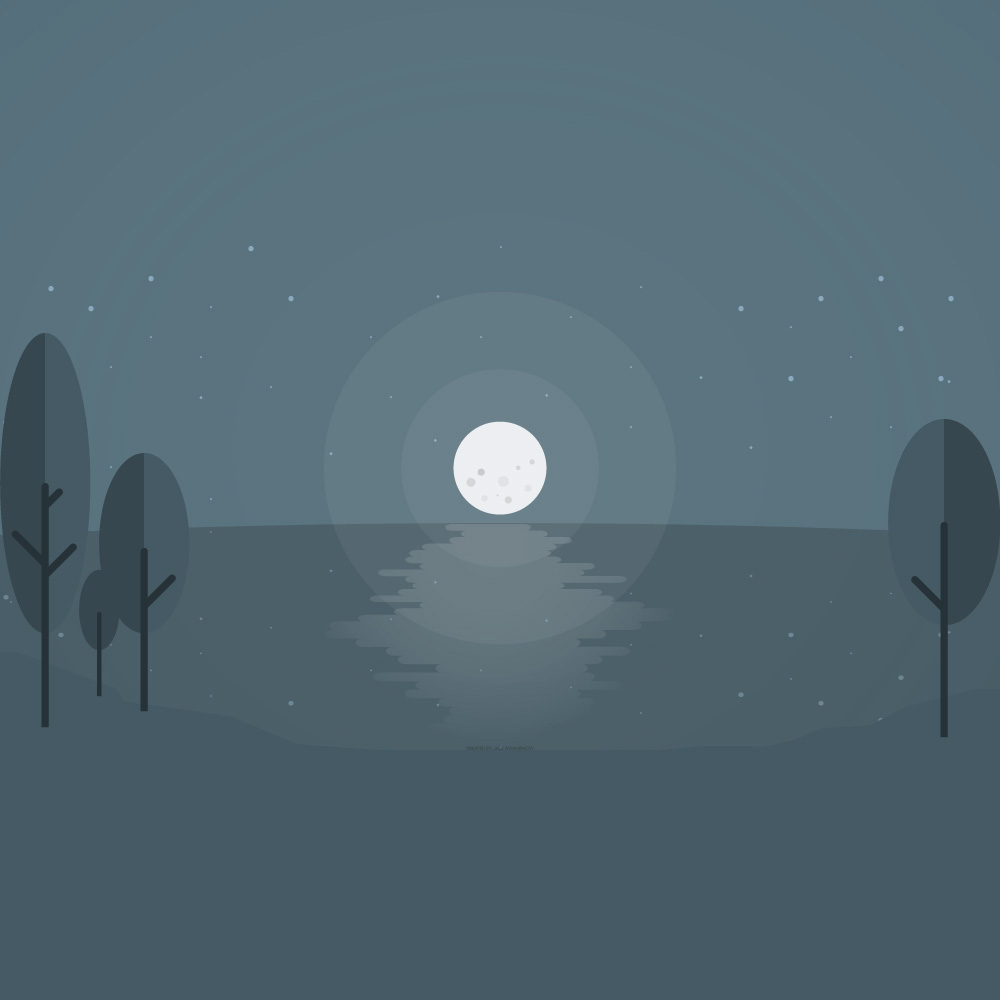
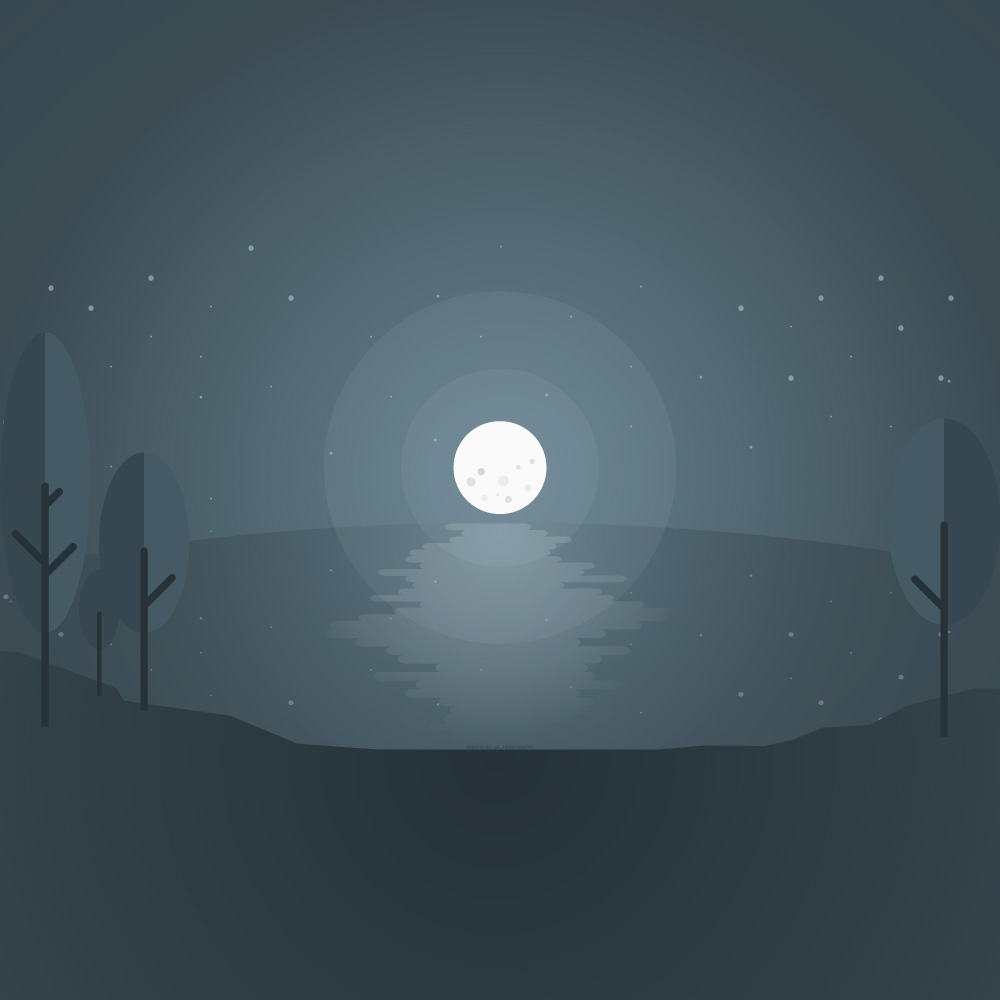
Update: Above the fold (ATF) illustration updated.

diff --git a/index.html b/index.html
@@ -100,10 +100,10 @@
               <h2 class="c-heading-above-the-fold u-text-center">Hello Moonshine</h2>
               <p class="u-text-center u-mar-bottom-20 u-mar-bottom-lg-40">Scalable and Maintainable Architecture</p>
               <div class="l-flex l-flex--jus-center l-gap-20 u-mar-bottom-10">
-                <div class="l-gap__item"><a class="c-button c-button--danger" href="https://github.com/jackryanoracoy/moonshine/archive/1.5.2.zip"><i class="fas fa-cloud-download-alt"></i>&nbsp;Get Moonshine</a></div>
+                <div class="l-gap__item"><a class="c-button c-button--danger" href="https://github.com/jackryanoracoy/moonshine/archive/1.5.3.zip"><i class="fas fa-cloud-download-alt"></i>&nbsp;Get Moonshine</a></div>
                 <div class="l-gap__item"><a class="c-button" href="https://github.com/jackryanoracoy/moonshine/releases"><i class="fas fa-folder-open"></i><span class="u-hidden-lg-max">&nbsp;All Version</span></a></div>
               </div>
-              <p class="u-text-center u-font-small">Latest available version - v1.5.2 and v1.5.1b</p>
+              <p class="u-text-center u-font-small">Latest available version - v1.5.3 and v1.5.1b</p>
 
             </section><!-- End - section -->
           </div><!-- End - flex content -->
@@ -1841,14 +1841,12 @@
 
               <h2 class="c-heading-section u-mar-bottom-20 u-mar-bottom-lg-40">What's new?</h2>
 
-              <p class="u-mar-bottom-20"><strong>Moonshine v1.5.2</strong> - Moonshine-SCSS v1.5.2 / Moonshine-CSS v1.5.1b</p>
+              <p class="u-mar-bottom-20"><strong>Moonshine v1.5.3</strong></p>
 
               <ul class="u-list u-list--square u-list--inside">
-                <li>Added brand logo</li>
-                <li>Replaced app icons.</li>
-                <li>Fixed icon location on "browserconfig.xml".</li>
-                <li>Class name changed, "l-cluster-gap-*" changed to "l-gap-*" to make it shorter.</li>
-                <li>CSS code base adjustments.</li>
+                <li>Added condition to enable/disable media queries.</li>
+                <li>Updated above the fold (ATF) illustration.</li>
+                <li>Minor changes and fixes</li>
               </ul>
 
             </section><!-- End - section -->
@@ -1880,7 +1878,7 @@
         <div class="l-container">
           <section class="l-section l-section--padding-narrow">
 
-            <h5 class="u-text-center u-font-small u-font-medium-md">Moonshine v1.5.2 - Licensed <a href="https://github.com/jackryanoracoy/moonshine/blob/master/LICENSE.txt">MIT</a>, <a rel="license" href="http://creativecommons.org/licenses/by/4.0/">CC BY 4.0</a></h5>
+            <h5 class="u-text-center u-font-small u-font-medium-md">Moonshine v1.5.3 - Licensed <a href="https://github.com/jackryanoracoy/moonshine/blob/master/LICENSE.txt">MIT</a>, <a rel="license" href="http://creativecommons.org/licenses/by/4.0/">CC BY 4.0</a></h5>
 
           </section><!-- End - section -->
         </div><!-- End - container -->
